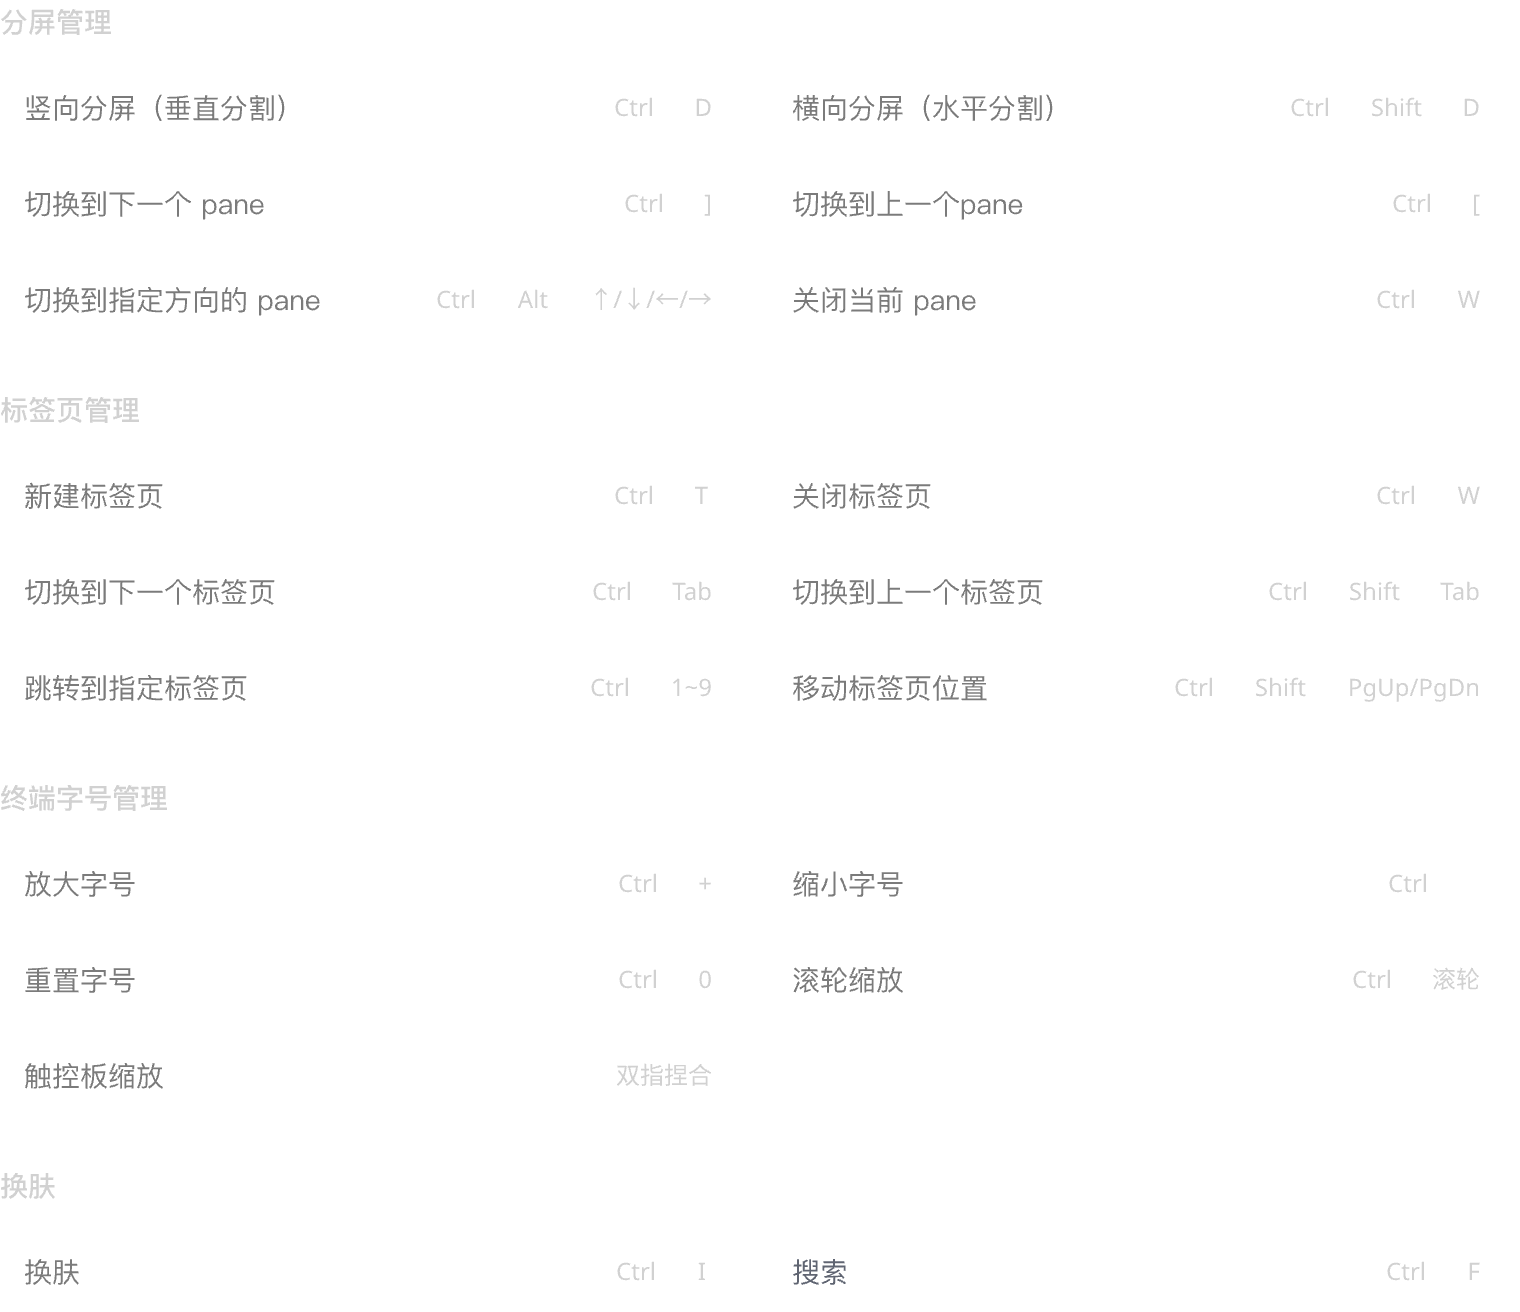
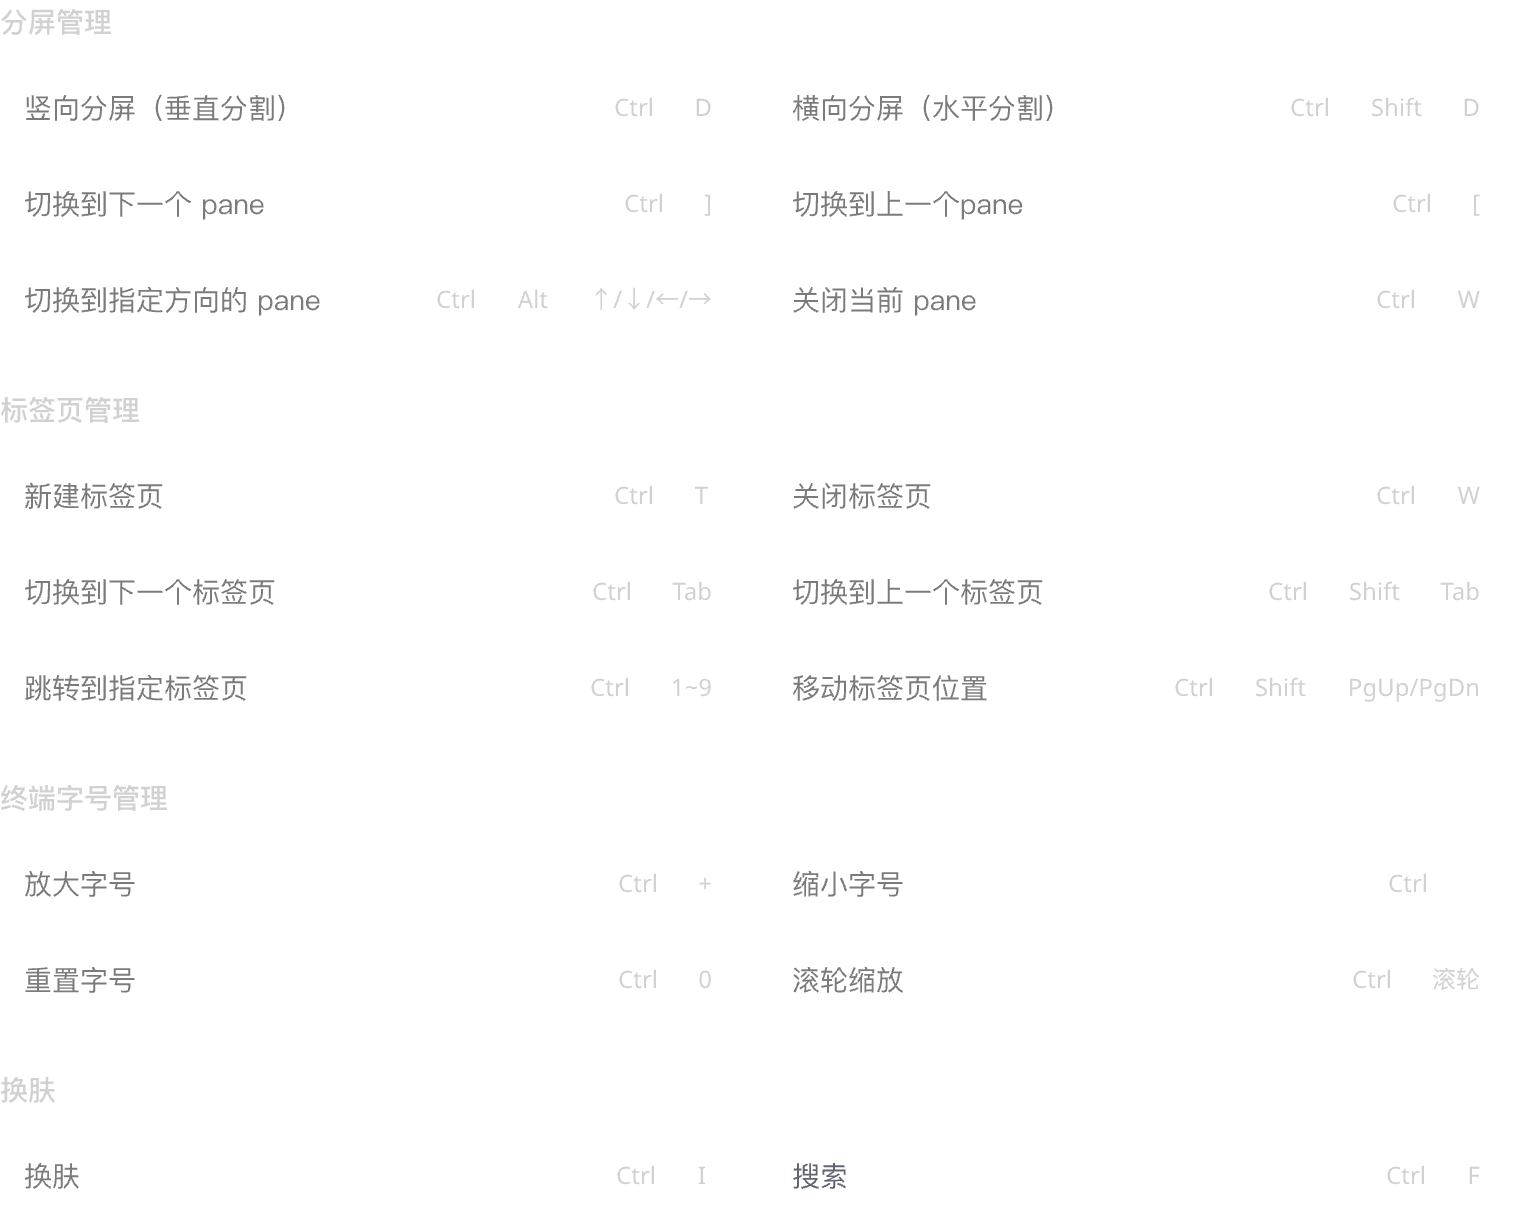
fix(native): 字号缩放只认鼠标滚轮，快捷键面板去掉未实现项并加顶栏入口
- 终端字号：触控板/精确滚动不再触发缩放，按住 ⌘ 时也只滚动；带刻度的鼠标滚轮与 ⌘ +/−/0 保持缩放
- 顶栏下载按钮左侧新增「快捷键」按钮（keyboard 图标），点击开关面板，关闭后焦点回到终端
- 快捷键面板：删除未实现的「触控板缩放（双指捏合）」，四张 artwork 无损裁行（1520×1216）
- Windows 浅色面板「切换到下一个 pane」由 ⌘ ] 改为 Ctrl ]，与深色版和实际行为一致

diff --git a/apps/desktop/src/renderer/src/ui/AppIcon.tsx b/apps/desktop/src/renderer/src/ui/AppIcon.tsx
@@ -14,6 +14,7 @@ export type AppIconName =
   | 'git-commit-horizontal'
   | 'graph-ring'
   | 'history'
+  | 'keyboard'
   | 'layers'
   | 'layers-plus'
   | 'network'
@@ -44,6 +45,7 @@ const paths: Record<AppIconName, ReactNode> = {
   plus: <><path d="M12 5v14"/><path d="M5 12h14"/></>,
   'graph-ring': <><path d="M13.8 5.6a8.2 8.2 0 0 1 4.5 7.8M16.5 17.5a8.2 8.2 0 0 1-9 0M5.7 13.4a8.2 8.2 0 0 1 4.5-7.8"/><circle cx="12" cy="4.5" r="2.15" fill="currentColor" stroke="none"/><circle cx="18.5" cy="16" r="2.15" fill="currentColor" stroke="none"/><circle cx="5.5" cy="16" r="2.15" fill="currentColor" stroke="none"/></>,
   history: <><path d="M3 12a9 9 0 1 0 3-6.7"/><path d="M3 4v5h5"/><path d="M12 8v4l3 2"/></>,
+  keyboard: <><rect x="2" y="5" width="20" height="14" rx="2"/><path d="M6 9h.01M10 9h.01M14 9h.01M18 9h.01M6 13h.01M10 13h.01M14 13h.01M18 13h.01M8 16h8"/></>,
   'panel-right-open': <><rect x="3" y="4" width="18" height="16" rx="2.5"/><path d="M14 4v16M17.5 9v6M20.5 12h-6"/></>,
   'folder-input': <><path d="M3 7.5V6a2 2 0 0 1 2-2h5l2 2h7a2 2 0 0 1 2 2v10a2 2 0 0 1-2 2H5a2 2 0 0 1-2-2Z"/><path d="M12 9v7m-3-3 3 3 3-3"/></>,
   layers: <><path d="M12.83 2.18a2 2 0 0 0-1.66 0L2.6 6.08a1 1 0 0 0 0 1.83l8.58 3.91a2 2 0 0 0 1.66 0l8.58-3.9a1 1 0 0 0 0-1.83z"/><path d="M2 12a1 1 0 0 0 .58.91l8.6 3.91a2 2 0 0 0 1.65 0l8.58-3.9A1 1 0 0 0 22 12"/><path d="M2 17a1 1 0 0 0 .58.91l8.6 3.91a2 2 0 0 0 1.65 0l8.58-3.9A1 1 0 0 0 22 17"/></>,

diff --git a/apps/native/desktop/src/shortcut_panel.rs b/apps/native/desktop/src/shortcut_panel.rs
@@ -56,7 +56,6 @@ pub struct ShortcutEntry {
     pub label: &'static str,
     mac_keys: &'static [&'static str],
     win_keys: &'static [&'static str],
-    light_win_keys: Option<&'static [&'static str]>,
 }
 
 impl ShortcutEntry {
@@ -69,17 +68,13 @@ impl ShortcutEntry {
             label,
             mac_keys,
             win_keys,
-            light_win_keys: None,
         }
     }
 
     pub fn keys(self, model: ShortcutPanelModel) -> &'static [&'static str] {
-        match (model.platform, model.theme) {
-            (ShortcutPlatform::Mac, _) => self.mac_keys,
-            (ShortcutPlatform::Windows, ShortcutTheme::Dark) => self.win_keys,
-            (ShortcutPlatform::Windows, ShortcutTheme::Light) => {
-                self.light_win_keys.unwrap_or(self.win_keys)
-            }
+        match model.platform {
+            ShortcutPlatform::Mac => self.mac_keys,
+            ShortcutPlatform::Windows => self.win_keys,
         }
     }
 }
@@ -91,11 +86,7 @@ const SPLITS: &[ShortcutEntry] = &[
         &["⌘", "Shift", "D"],
         &["Ctrl", "Shift", "D"],
     ),
-    ShortcutEntry {
-        // The light Windows artwork shows ⌘ for this row.
-        light_win_keys: Some(&["⌘", "]"]),
-        ..ShortcutEntry::new("切换到下一个 pane", &["⌘", "]"], &["Ctrl", "]"])
-    },
+    ShortcutEntry::new("切换到下一个 pane", &["⌘", "]"], &["Ctrl", "]"]),
     ShortcutEntry::new("切换到上一个pane", &["⌘", "["], &["Ctrl", "["]),
     ShortcutEntry::new(
         "切换到指定方向的 pane",
@@ -127,7 +118,6 @@ const FONT_SIZE: &[ShortcutEntry] = &[
     ShortcutEntry::new("缩小字号", &["⌘", "−"], &["Ctrl", "−"]),
     ShortcutEntry::new("重置字号", &["⌘", "0"], &["Ctrl", "0"]),
     ShortcutEntry::new("滚轮缩放", &["⌘", "滚轮"], &["Ctrl", "滚轮"]),
-    ShortcutEntry::new("触控板缩放", &["双指捏合"], &["双指捏合"]),
 ];
 
 const OTHER: &[ShortcutEntry] = &[
@@ -260,7 +250,6 @@ mod tests {
 缩小字号|⌘ −
 重置字号|⌘ 0
 滚轮缩放|⌘ 滚轮
-触控板缩放|双指捏合
 其他
 换肤|⌘ I
 搜索|⌘ F";
@@ -284,7 +273,6 @@ mod tests {
 缩小字号|Ctrl −
 重置字号|Ctrl 0
 滚轮缩放|Ctrl 滚轮
-触控板缩放|双指捏合
 换肤
 换肤|Ctrl I
 搜索|Ctrl F";
@@ -309,22 +297,22 @@ mod tests {
                 (
                     ShortcutPlatform::Mac,
                     ShortcutTheme::Dark,
-                    0x622f9c3f771efcf2,
+                    0x91cb41da4a415487,
                 ),
                 (
                     ShortcutPlatform::Mac,
                     ShortcutTheme::Light,
-                    0x933306c961927956,
+                    0xf0fe923be57aaa91,
                 ),
                 (
                     ShortcutPlatform::Windows,
                     ShortcutTheme::Dark,
-                    0xbf86448c96ec36e4,
+                    0x327876b01ec3352c,
                 ),
                 (
                     ShortcutPlatform::Windows,
                     ShortcutTheme::Light,
-                    0x6651954908098f89,
+                    0x50d8149aa3c3e275,
                 ),
             ] {
                 let model = ShortcutPanelModel {
@@ -344,12 +332,9 @@ mod tests {
                         }),
                     );
                 }
-                let expected = match (platform, theme) {
-                    (ShortcutPlatform::Mac, _) => MAC_ENTRIES.into(),
-                    (ShortcutPlatform::Windows, ShortcutTheme::Dark) => WIN_ENTRIES.into(),
-                    (ShortcutPlatform::Windows, ShortcutTheme::Light) => {
-                        WIN_ENTRIES.replace("切换到下一个 pane|Ctrl ]", "切换到下一个 pane|⌘ ]")
-                    }
+                let expected = match platform {
+                    ShortcutPlatform::Mac => MAC_ENTRIES,
+                    ShortcutPlatform::Windows => WIN_ENTRIES,
                 };
                 assert_eq!(lines.join("\n"), expected, "{model:?}");
                 let artwork_hash = model
@@ -532,7 +517,7 @@ mod ui {
                         .id("shortcut-panel-artwork")
                         .flex_none()
                         .w(artwork_width)
-                        .h(artwork_width * (1312. / 1520.))
+                        .h(artwork_width * (1216. / 1520.))
                         .with_fallback(move || ui_text(messages.image_alt).into_any_element()),
                 );
 

diff --git a/apps/native/desktop/src/terminal_surface.rs b/apps/native/desktop/src/terminal_surface.rs
@@ -55,6 +55,24 @@ pub fn font_zoom_for_key(stroke: &gpui::Keystroke, is_mac: bool) -> Option<FontZ
     }
 }
 
+fn font_zoom_for_wheel(
+    delta: gpui::ScrollDelta,
+    modifiers: gpui::Modifiers,
+    is_mac: bool,
+) -> Option<FontZoom> {
+    let gpui::ScrollDelta::Lines(delta) = delta else {
+        return None;
+    };
+    if !terminal_mod(modifiers, is_mac) || modifiers.alt || delta.y == 0. {
+        return None;
+    }
+    Some(if delta.y > 0. {
+        FontZoom::In
+    } else {
+        FontZoom::Out
+    })
+}
+
 const DEFAULT_VERTICAL_INSET: Pixels = px(14.);
 const CANVAS_VERTICAL_INSET: Pixels = px(12.);
 const BLINK_INTERVAL: Duration = Duration::from_millis(500);
@@ -1361,21 +1379,10 @@ impl TerminalSurface {
     }
 
     fn on_scroll(&mut self, event: &ScrollWheelEvent, cx: &mut Context<Self>) {
-        if terminal_mod(event.modifiers, cfg!(target_os = "macos")) && !event.modifiers.alt {
-            let delta = match event.delta {
-                gpui::ScrollDelta::Pixels(delta) => f32::from(delta.y),
-                gpui::ScrollDelta::Lines(delta) => delta.y,
-            };
-            if delta != 0. {
-                self.emit(
-                    SurfaceEventKind::FontZoom(if delta > 0. {
-                        FontZoom::In
-                    } else {
-                        FontZoom::Out
-                    }),
-                    cx,
-                );
-            }
+        if let Some(zoom) =
+            font_zoom_for_wheel(event.delta, event.modifiers, cfg!(target_os = "macos"))
+        {
+            self.emit(SurfaceEventKind::FontZoom(zoom), cx);
             cx.stop_propagation();
             return;
         }
@@ -1423,7 +1430,7 @@ impl TerminalSurface {
     }
 
     fn scrollbar_wheel(&mut self, event: &ScrollWheelEvent, cx: &mut Context<Self>) {
-        if event.modifiers.control || event.modifiers.platform {
+        if !event.delta.precise() && (event.modifiers.control || event.modifiers.platform) {
             return;
         }
         let delta = wheel_scroll_pixels(event.delta, event.modifiers.alt);
@@ -2409,6 +2416,40 @@ mod file_drop_tests {
 #[cfg(test)]
 mod shortcut_tests {
     use super::*;
+
+    #[test]
+    fn font_zoom_only_uses_line_wheel_with_the_platform_modifier() {
+        use gpui::{Modifiers, ScrollDelta};
+
+        let up = ScrollDelta::Lines(point(0., 1.));
+        let down = ScrollDelta::Lines(point(0., -1.));
+        let horizontal = ScrollDelta::Lines(point(1., 0.));
+        let precise = ScrollDelta::Pixels(point(px(0.), px(12.)));
+        for is_mac in [true, false] {
+            let modifier = Modifiers {
+                platform: is_mac,
+                control: !is_mac,
+                ..Modifiers::default()
+            };
+            let with_alt = Modifiers {
+                alt: true,
+                ..modifier
+            };
+            assert_eq!(
+                font_zoom_for_wheel(up, modifier, is_mac),
+                Some(FontZoom::In)
+            );
+            assert_eq!(
+                font_zoom_for_wheel(down, modifier, is_mac),
+                Some(FontZoom::Out)
+            );
+            assert_eq!(font_zoom_for_wheel(horizontal, modifier, is_mac), None);
+            assert_eq!(font_zoom_for_wheel(precise, modifier, is_mac), None);
+            assert_eq!(font_zoom_for_wheel(up, with_alt, is_mac), None);
+            assert_eq!(font_zoom_for_wheel(up, Modifiers::default(), is_mac), None);
+            assert_eq!(font_zoom_for_wheel(up, modifier, !is_mac), None);
+        }
+    }
 
     #[test]
     fn font_shortcuts_use_command_on_mac_and_control_on_windows() {

diff --git a/apps/native/desktop/src/workspace.rs b/apps/native/desktop/src/workspace.rs
@@ -1806,6 +1806,7 @@ const CONTROLS: &[&str] = &[
     "dag-open-retry",
     "dag-open-dismiss",
     "split",
+    "shortcuts",
     "project-instructions",
     "project-instructions-close",
     "project-instructions-preview",
@@ -13403,6 +13404,37 @@ impl Workspace {
                     cx,
                 )
                 .into_any_element()
+            }
+        })
+        .child({
+            let shortcuts = div()
+                .id("shortcuts")
+                .size(px(28.))
+                .flex_none()
+                .flex()
+                .items_center()
+                .justify_center()
+                .child(icon("keyboard", 16., rgba(palette.tabs.action_text)));
+            if !self.wiring_available() {
+                shortcuts
+                    .opacity(0.5)
+                    .cursor(CursorStyle::OperationNotAllowed)
+                    .on_mouse_down(MouseButton::Left, |_, _, cx| cx.stop_propagation())
+            } else {
+                self.button(
+                    shortcuts.cursor_pointer().tooltip({
+                        let label = self.locale.text("快捷键", "Keyboard shortcuts");
+                        move |_, cx| cx.new(|_| CardTooltip(label.into())).into()
+                    }),
+                    &self.control_focus["shortcuts"],
+                    |this, window, cx| {
+                        if let Some(focus) = this.active_terminal_focus(cx) {
+                            window.focus(&focus);
+                        }
+                        this.toggle_shortcuts(window, cx);
+                    },
+                    cx,
+                )
             }
         })
         .child(self.update_trigger(cx))

diff --git a/apps/native/desktop/src/workspace_wiring.rs b/apps/native/desktop/src/workspace_wiring.rs
@@ -857,7 +857,7 @@ impl Workspace {
         self.theme.effective() == matou_native_desktop::theme_tokens::AppTheme::Dark
     }
 
-    fn wiring_available(&self) -> bool {
+    pub(super) fn wiring_available(&self) -> bool {
         self.settings.is_none()
             && self.wiring_unblocked()
             && (self.hierarchy.is_some() || self.read_only.is_some())
@@ -889,7 +889,7 @@ impl Workspace {
         }
     }
 
-    fn active_terminal_focus(&self, cx: &App) -> Option<FocusHandle> {
+    pub(super) fn active_terminal_focus(&self, cx: &App) -> Option<FocusHandle> {
         let id = self.active_level_focus()?;
         if !self.wiring_available()
             || self.wiring.board_open

diff --git a/apps/native/desktop/src/assets.rs b/apps/native/desktop/src/assets.rs
@@ -10,6 +10,7 @@ impl AssetSource for NativeAssets {
             "icons/plus.svg" => include_bytes!("../assets/icons/plus.svg"),
             "icons/graph-ring.svg" => include_bytes!("../assets/icons/graph-ring.svg"),
             "icons/history.svg" => include_bytes!("../assets/icons/history.svg"),
+            "icons/keyboard.svg" => include_bytes!("../assets/icons/keyboard.svg"),
             "icons/panel-right-open.svg" => include_bytes!("../assets/icons/panel-right-open.svg"),
             "icons/folder-input.svg" => include_bytes!("../assets/icons/folder-input.svg"),
             "icons/layers.svg" => include_bytes!("../assets/icons/layers.svg"),
